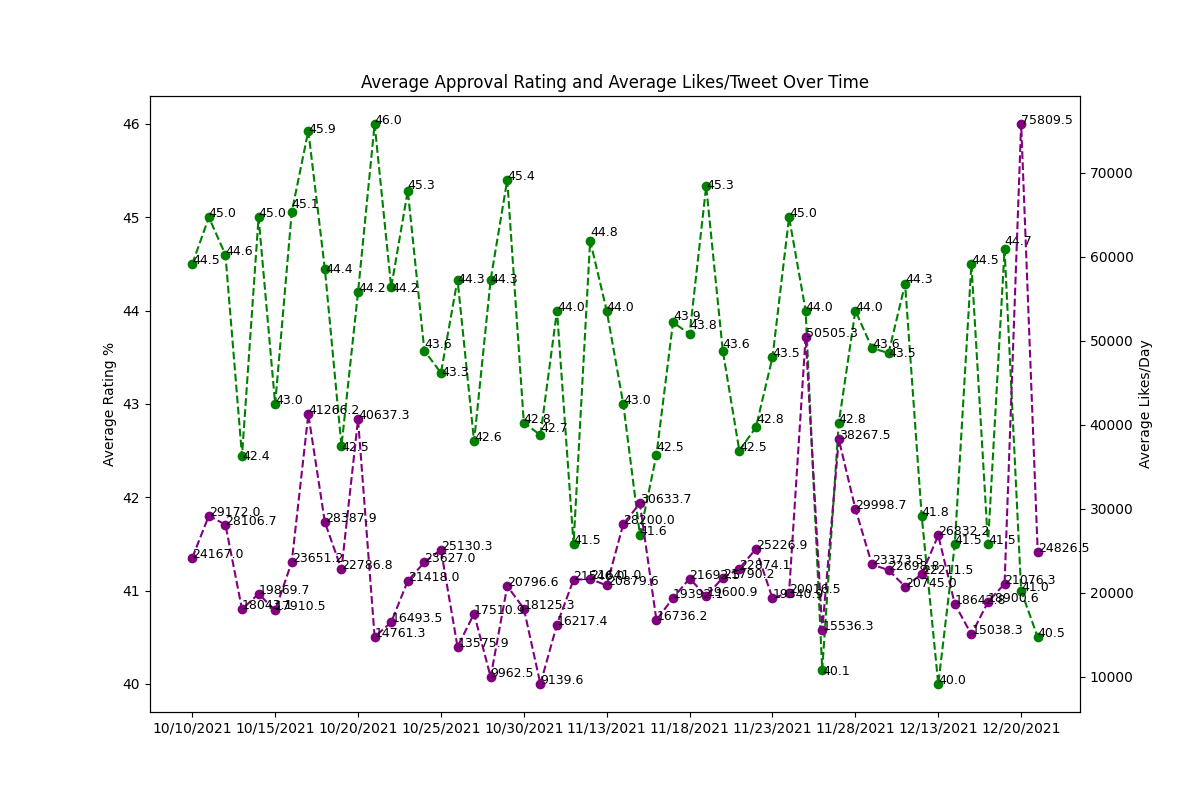
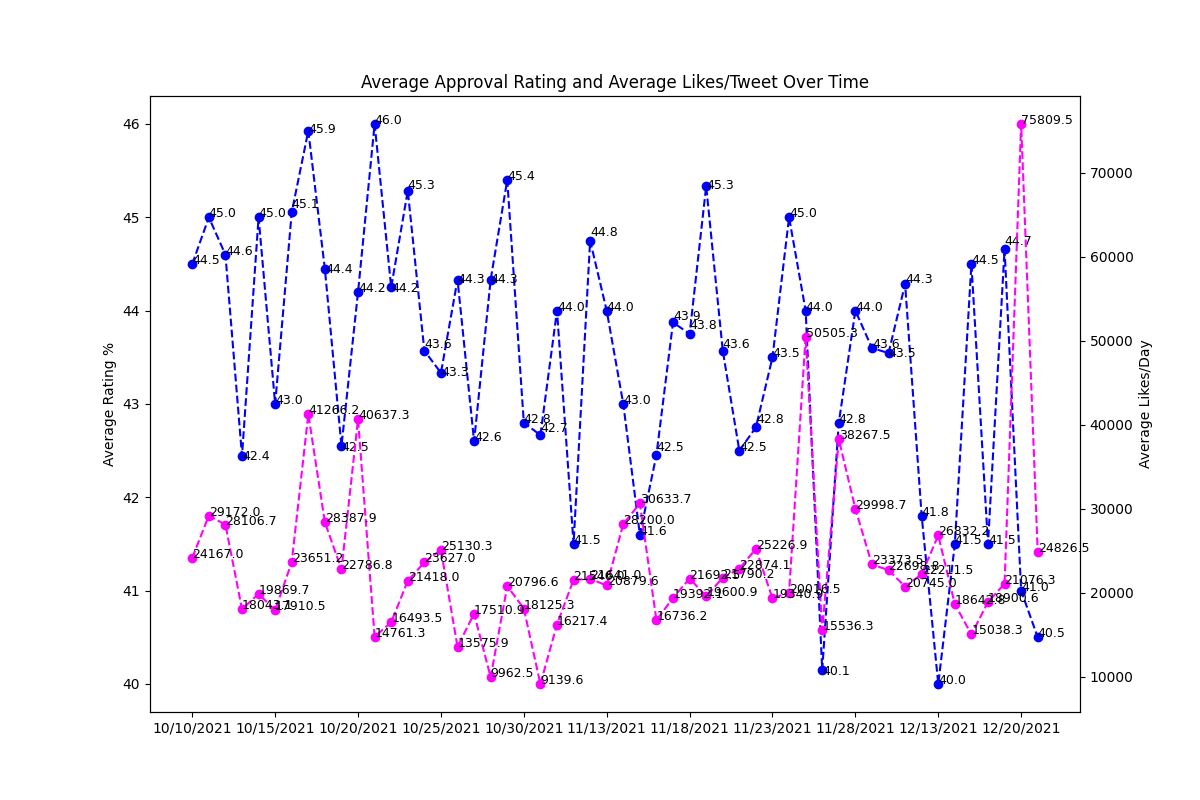
changed colors of graph

diff --git a/polling_data.py b/polling_data.py
@@ -100,12 +100,12 @@ def generate_complex_sql():
 
     x_axis = dates
     y_axis = approval_ratings
-    ax.plot(x_axis, y_axis, linestyle='--', marker='o', color='g', label='average approval rating/day with marker')
+    ax.plot(x_axis, y_axis, linestyle='--', marker='o', color='blue', label='average approval rating/day with marker')
     for index in range(len(x_axis)):
         ax.text(x_axis[index], round(y_axis[index], 1), round(y_axis[index], 1), size=9)
 
     y_axis = likes
-    ax2.plot(x_axis, y_axis, linestyle='--', marker='o', color='purple', label='average likes/day with marker')
+    ax2.plot(x_axis, y_axis, linestyle='--', marker='o', color='magenta', label='average likes/day with marker')
     for index in range(len(x_axis)):
         ax2.text(x_axis[index], round(y_axis[index], 1), round(y_axis[index], 1), size=9)
 
